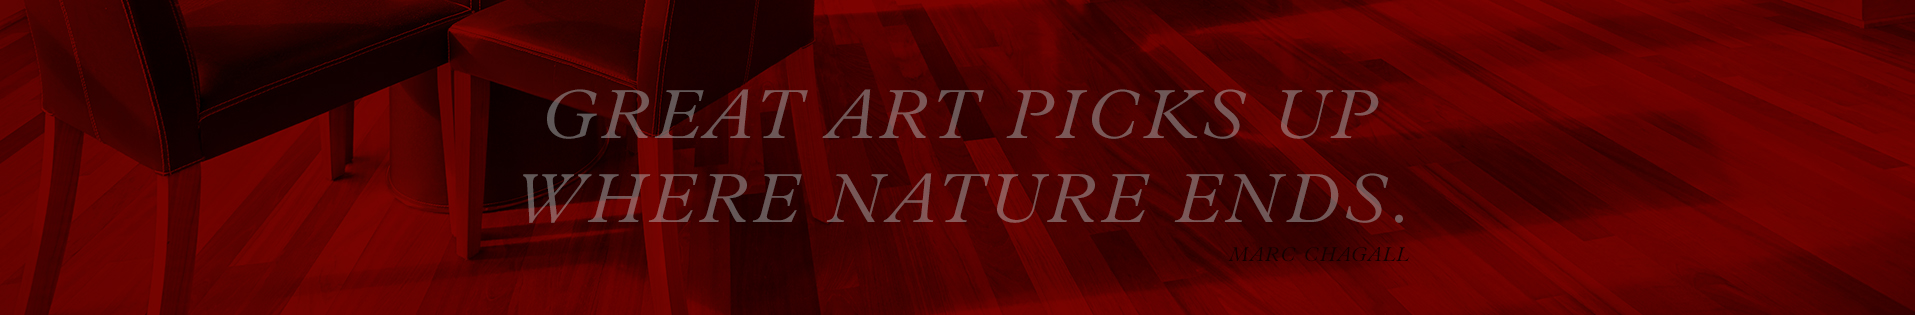
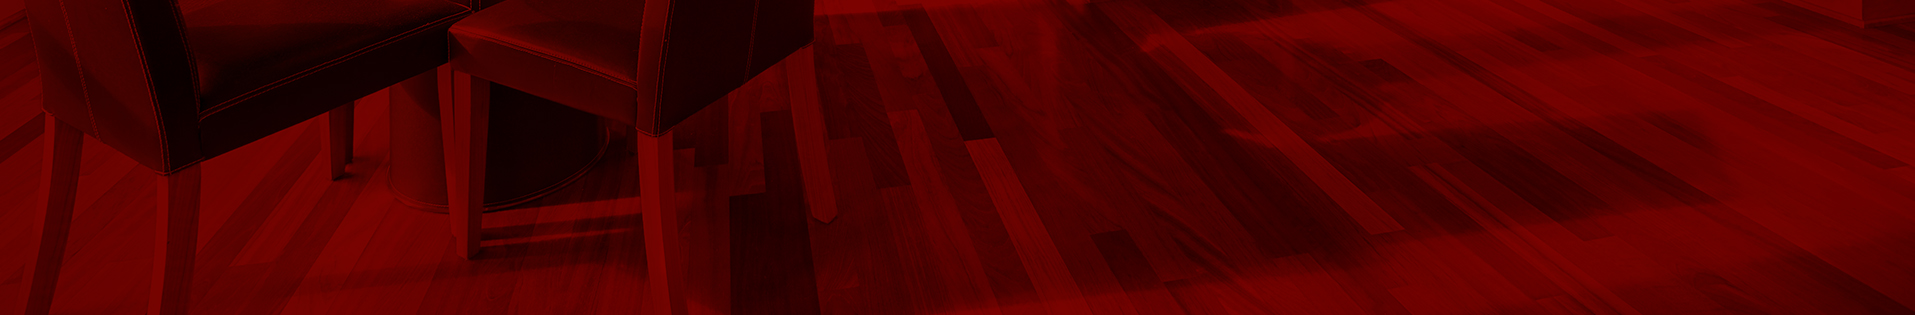
Small responsive update.

Changed region(s): [[0.2773, 0.5429, 0.7394, 0.7143], [0.2773, 0.2857, 0.7394, 0.4571], [0.647, 0.8, 0.7394, 0.8286]]

diff --git a/css/responsive.css b/css/responsive.css
@@ -46,9 +46,15 @@
 	.grid-item.height-3, .grid-item.height-4, .grid-item.height-5 {
 		height: 680px;
 	}
+
+	#section-quote .quote-text h1 {
+		font-size: 3.5em;
+		margin-top: 0.8em;
+	}
 	
 	#section-contact {
-		width: 860px;
+		width: 98%;
+		margin: 0 1%;
 	}
 }
 
@@ -290,6 +296,12 @@
 		top: auto;
 		bottom: 240px;
 	}
+
+	#section-quote .quote-text h1,
+	.banner p {
+		font-size: 3em;
+		margin-top: 0.9em;
+	}
 	
 	#section-contact {
 		width: 98%;
@@ -353,10 +365,6 @@
 		height: 220px;
 	}
 
-	#section-quote .quote-text h1 {
-		font-size: 2em;
-	}
-
 	#section-quote .quote-text p {
 		font-size: 0.75em;
 	}
@@ -377,6 +385,11 @@
 
 	#section-case-study .about-artisan.content p {
 		margin: 10px auto 90px;
+	}
+
+	#section-quote .quote-text h1,
+	.banner p {
+		font-size: 2.25em;
 	}
 }
 

diff --git a/style.css b/style.css
@@ -1386,7 +1386,7 @@ img#wpstats {
 	position: relative;
 	display: block;
 	width: 100%;
-	height: 440px;
+	height: 220px;
 }
 
 #section-quote > div {
@@ -1401,12 +1401,10 @@ img#wpstats {
 #section-quote .quote-bg {
 	background-image: url( 'images/quote.jpg' );
 	background-position: center;
-	background-size: auto 100%;
 }
 
 #section-quote .quote-text {
 	position: relative;
-	left: -99999px;
 	width: 80%;
 	margin: 0 auto;
 	text-align: center;
@@ -1414,12 +1412,12 @@ img#wpstats {
 }
 
 #section-quote .quote-text h1 {
-	font-size: 5em;
+	font-size: 4.5em;
 	line-height: 1em;
 	display: inline-block;
 	vertical-align: middle;
 	position: relative;
-	padding: 1.5em 0 0;
+	padding: 0.25em 0 0;
 }
 
 #section-quote .quote-text p {

diff --git a/inc/structure/visual-highlight.php b/inc/structure/visual-highlight.php
@@ -15,7 +15,7 @@
 					continue;
 				}
 
-				$match = preg_match( "/\/([^\/]*)\.(?:png|jpg)$/", $url, $matches );
+				/*$match = preg_match( "/\/([^\/]*)\.(?:png|jpg)$/", $url, $matches );
 				
 				if( $match ) {
 					$key = $matches[ 1 ];
@@ -26,17 +26,17 @@
 					'post_mime_type' => 'image',
 					'name' => $key
 				);
-				$posts = get_posts( $args );
+				$posts = get_posts( $args );*/
 				$highlight_sliders .= '<div class="slides"><figure class="highlight-image highlight-image'.$i.'"></figure>';
 				
-				if( $posts[ 0 ]->post_excerpt ) {
+				/*if( $posts[ 0 ]->post_excerpt ) {
 					$highlight_sliders .= '<div class="caption"><p>' . $posts[ 0 ]->post_excerpt . '</p></div>';
 					
-					/*if( $posts[ 0 ]->post_content ) {
+					if( $posts[ 0 ]->post_content ) {
 						$highlight_sliders .= '<div class="name">' . $posts[ 0 ]->post_content . '</div>';
 					}
-					$highlight_sliders .= '</div>';*/
-				}
+					$highlight_sliders .= '</div>';
+				}*/
 				$highlight_sliders .= '</div><!-- .slides -->';
 			}
 			$highlight_sliders .= '</div><!-- .slider-cycle --><!--<nav id="highlight-controllers" class="clearfix"></nav>--><!-- #controllers --></section><!-- .featured-slider -->';
